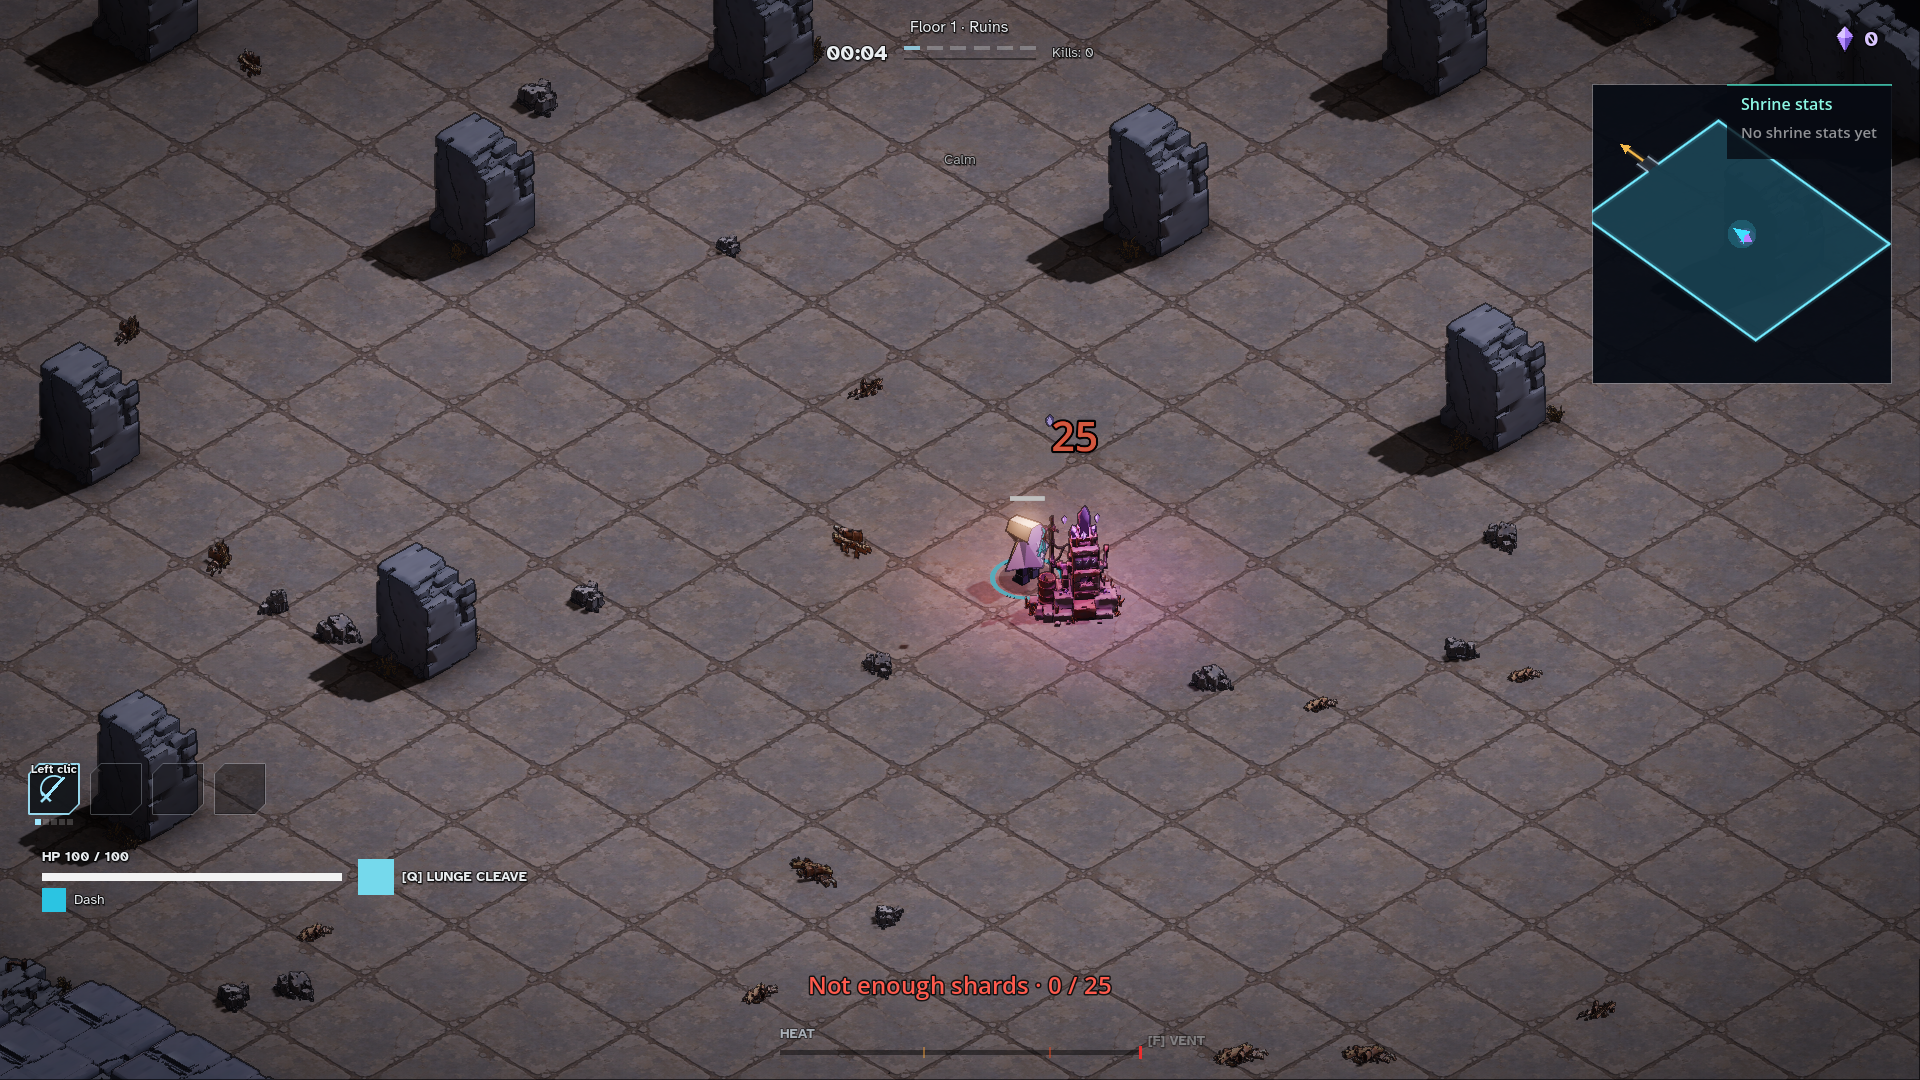
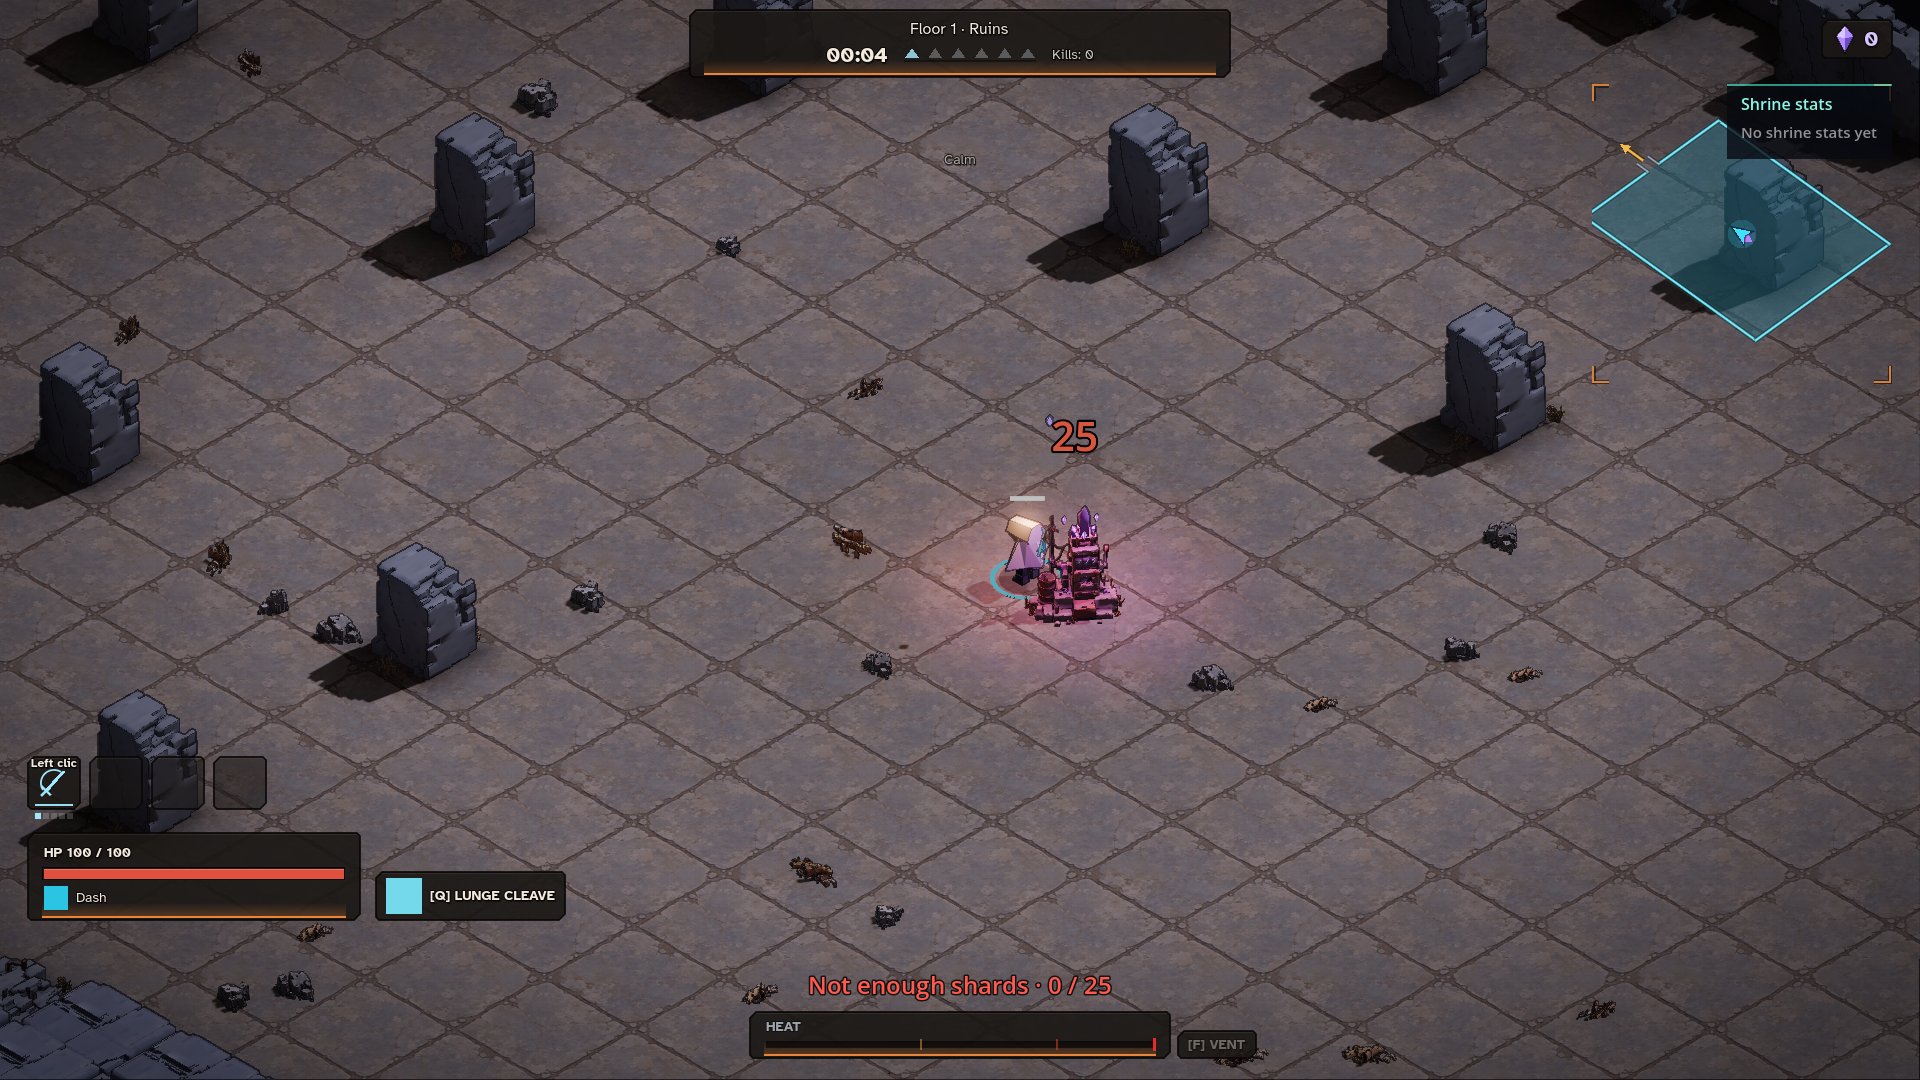
Docs: v0.6.0 Step SR evidence (shot on the merged build), PROGRESS row, MIN_TEST_COUNT 1218
Claude-Session: https://claude.ai/code/session_01Ybi1y9EcEtDzJ8CFycqiNq

diff --git a/docs/roadmap/v0.5.5/evidence/SHRINE_MODEL.md b/docs/roadmap/v0.5.5/evidence/SHRINE_MODEL.md
@@ -1,0 +1,122 @@
+# v0.6.0 Step SR — the owner's gamble shrine model (evidence)
+
+The owner uploaded `assets/models/gamble-shrine.glb` (their own art, made with an AI 3D generator like the v0.5.9 kit).
+This step installs it the way v0.5.9 installed the kit. Build SHA: the step is `b421e17`, merged with
+`claude/lucid-fermat-9wv2tf` (`a541e49`, Step UI + CU) at `75f10e07c972e3e2a39c47504e0ca167260787b8`; the suite, the
+export smoke and the screenshot below ran on `75f10e0` (with `tests/MIN_TEST_COUNT` already at 1218, committed with
+this file). Godot `4.7.2.stable.official.ed1daf0bf`, Linux cloud container, lavapipe (`llvmpipe`) for the shot.
+Presentation only: no sim file changed, so the shrine's spot (`Gamble.spot`), its solid square
+(`Gamble.collider`, 1 × 1 m turned 45°) and its 1.8 m reach are what they were.
+
+## What was done
+| Piece | Where |
+|---|---|
+| The raw upload moved to the kit drop folder under its id (`unprocessed_images/kit/gamble_shrine.glb`, `git mv`); the Godot import files of the old path went with it | `unprocessed_images/kit/` |
+| `kit_prep.py` prepared it like every kit piece: texture 4096 → 1024 px, brightened (raw mean 0.225 → 0.505), JPEG. New: file names on the command line prepare only those uploads, so the rest of the kit and the ground textures are not rewritten | `scripts/assets/kit_prep.py`, `assets/models/kit/gamble_shrine.glb` (+ its `.import` and extracted texture) |
+| Manifest entry (owner's art; sha256 `de311867…0cf0d663`) and a "Set pieces" row in the kit requests | `assets/models/manifest.json`, `docs/art/KIT_REQUESTS.md` |
+| `KitModels.SPECS["gamble_shrine"]`: yaw 0 (its front, the slot window, is already glTF +Z; long side already on X), height 1.7 m, role `shrine`. KitModels normalises it like every piece (bottom at y = 0, centred) and gives it generated LODs (`_with_lods`) | `src/presentation/world_view/kit_models.gd` |
+| `GambleShrineView`: with the v0.5.9 look (`kit_model`, set by `WorldViewRoot` exactly as `kit_chest` is: when the floor has a lighting mood) the body is the model at its natural size 1.58 × 1.12 × 1.7 m, turned 45° so its front faces the iso camera and its sides line up with the sim's square. A missing file draws the old code-built obelisk (L15) | `src/presentation/world_view/gamble_shrine_view.gd`, `world_view_root.gd` |
+| Cues kept: the price floating above (red when you can't pay, hidden far away); the shrine's own light (range 4 m, unshadowed, as before) now sits at the model's crystal and takes the crystal's magenta (`#D46BFF`, the minimap's shrine colour) instead of the old cyan; it brightens ×1.35 in reach; three shards orbit the crystal and spin fast on a use; the whole model flashes on the landing (flashable copy of its material: only energies change, no shader swap) and shakes and turns the light red on a refusal | same file |
+| Shot script | `scripts/shots/shrine_model.gd` |
+
+Not touched: the v0.5.9 lighting, dresser, rooms and other kit pieces; the HUD (Step UI); the attack engine (MX).
+
+## Tests
+- `tests/content/test_model_manifest.gd` (unchanged): the new file is in the manifest with its hash, and every
+  `KitModels.SPECS` id (now including `gamble_shrine`) is delivered.
+- `tests/unit/presentation/test_kit_models.gd` (unchanged): the shrine loads into the unit box with its 1.7 m height
+  and its textured material, like every spec.
+- New `tests/unit/presentation/test_kit_shrine.gd` (4): the view loads the kit's mesh and places it at the sim
+  position, standing on the floor, centred; turned like the footprint, which is unchanged, and its half extents cover
+  the 0.5 m square and stay under 0.8 m (the old plinth was 0.78 m); the cues on the model (price, light brighter in
+  reach, spin, landing flash with no shader change, shake on a refusal); a missing model and the old look draw the
+  obelisk.
+- `tests/e2e/test_e2e_gamble.gd` (main.tscn, input only) gains two asserts: the real game's shrine uses the model, at
+  the sim's shrine position. The rest of the test (walk up, refused use, two wins, pause menu stats) is unchanged.
+- `tests/MIN_TEST_COUNT` 1214 → 1218.
+
+## Commands
+```
+python3 -I scripts/assets/kit_prep.py gamble_shrine.glb
+godot --headless --path . --editor --import --quit
+gdformat --check src scripts tests && gdlint src scripts tests
+bash /tmp/claude-0/vd.sh <worktree> sr        # import + lint + bash scripts/verify.sh
+cd /tmp && bash <worktree>/scripts/ci/export_smoke.sh
+XDG_DATA_HOME=<empty folder> xvfb-run -a -s "-screen 0 1920x1080x24" godot --path . --audio-driver Dummy \
+  --resolution 1920x1080 -s scripts/shots/shrine_model.gd
+cp build/shots/v0.6.0/shrine_model/near.png docs/roadmap/v0.5.5/evidence/shrine_model.png   # by hand
+```
+
+## Raw output
+`kit_prep.py`:
+```
+de311867124089b3b2e56c6fea0aabfe7e6d3ad7a3d37a7a53c84b590cf0d663    978724  assets/models/kit/gamble_shrine.glb
+```
+
+Full suite at `75f10e0` (`/tmp/claude-0/vd_sr.clean.log`; 0 lines with "SCRIPT ERROR" or "Ignoring script"):
+```
+verify exit 0
+Tests              1218
+Passing Tests      1218
+check_gut_log: ok (1218 passing, minimum 1218)
+```
+Tail of the log:
+```
+Scripts             195
+Tests              1218
+Passing Tests      1218
+Asserts           1242312
+Time              2064.044s
+
+---- All tests passed! ----
+```
+An earlier run on the same commit failed 12 e2e tests with `String formatting error` in `pause_menu.gd:34`. The cause
+was my own: I had `git restore`d `locale/strings.{en,es}.translation` after an import regenerated them, and the
+committed copies on `claude/lucid-fermat-9wv2tf` are older than `strings.csv` (`UI_PAUSE_RUN` takes 5 arguments in the
+CSV, fewer in the committed binary). A fresh clone regenerates them on import. After `touch locale/strings.csv` and a
+re-import, the run above passed. The regenerated `.translation` files are left unstaged (not this step's change).
+
+Export smoke (from `/tmp`):
+```
+manifest: 52da1bcc5ac32a0846cd86cb332faae6bde54650fa2f43c65186a5b0544c9878 (246 files, 0 errors)
+Export smoke check (exported pack)
+  ok    running inside the exported pack (run from outside the project folder)
+  ok    the main scene ships
+  ok    600-tick World run hash e5365ddb6dcb matches the project's
+  ok    content player: 1
+  ok    content biomes: 3
+  ok    content validates inside the pack (0 errors)
+  ok    manifest hash 52da1bcc5ac3 matches the project's
+  ok    Spanish translation is loaded
+  ok    UI_PLAY is Play / Jugar
+  ok    boss model stone_sentinel loads from the pack
+  ok    boss model crawler_queen loads from the pack
+  ok    boss model fortress_turret loads from the pack
+  ok    audio cues: 87
+  ok    every cue's sound loads from the pack (missing: [])
+  ok    the test framework is not shipped
+  ok    tests are not shipped
+0 miss(es)
+exit 0
+```
+
+Screenshot run (renderer, 1920 × 1080):
+```
+shrine_model: renderer=forward_plus device=llvmpipe (LLVM 20.1.2, 256 bits) window=(1920, 1080)
+shrine_model: uses_model=true view_pos=(36.755, 0.0, -7.065001) sim_pos=(36.755, 7.065001) price='25'
+shrine_model: res://build/shots/v0.6.0/shrine_model/near.png (frame 89, tick 296)
+shrine_model: spinning=true
+shrine_model: res://build/shots/v0.6.0/shrine_model/spin.png (frame 103, tick 352)
+exit 0
+```
+`view_pos` is `SimPlane.to_3d(sim_pos)`: the model stands at the sim's shrine.
+[`shrine_model.png`](shrine_model.png) is `near.png` (sha256 `b1ae6a97…0cc46421`): floor 1, Ruins mood, the hero in
+reach, the price in red (no shards), the crystal's magenta light on the floor. `spin.png` (sha256 `83beec76…01552a83`,
+after a use with shards granted by the labelled SHOT HELPER) stays in `build/`.
+The first attempt "gave up in step boot": a saved run from another build in the shared `user://` turned Enter into
+Continue. That run moved the bad save aside as `user://saves/run.bad.2026-10-09T01-44-20.save`. Hence the empty
+`XDG_DATA_HOME`.
+
+## Owner
+- How the model reads in play, its size (1.7 m, the old obelisk reached 2.2 m) and the magenta light in place of the
+  old cyan: **OWNER ONLY**.

diff --git a/docs/roadmap/v0.5.5/PROGRESS.md b/docs/roadmap/v0.5.5/PROGRESS.md
@@ -21,8 +21,10 @@ Plan: [`PLAN.md`](PLAN.md). Branch: `claude/lucid-fermat-9wv2tf`; a PR into `mai
 | CU | Cursed chests offer a trade-off curse card (rare-level upside, no epic stat card; S6); eight trade-off curses C1–C8 (Rooted, Heavy Hands, Glass Heart, Blood Price, Fevered, Tunnel Vision, Brittle, Marked), each +1 T, lifted whole by the cleanse; Marked Hunt became C8 Marked, the other five stay as event curses (S7); core theft: elites and bosses carry a glowing core in their card family's colour, a stagger opens a 2 s steal window, a kill inside it drops the core as a free pick (a boss's from the legendary tier) (X2). Evidence: [`evidence/CURSES.md`](evidence/CURSES.md) (suite 1178/1178, export smoke green) | `af1a206`, `949b32f` |
 
 | UI | The A5 restyle: the in-game HUD in B "Ember stone" (stone slabs with an ember line under HP, the top plate, heat and the boss bar; a red HP bar; danger as ember teeth; ability slots as stone with their colour line; skill and vent hints on small slabs) with the **corner minimap floating over the game, no black background** (dark halo under its lines, ember corner ticks); every menu (main, pause, Options, credits, run recap / death, build picker's Back) in C "Cold glass" (the game blurred and dimmed behind, left-aligned title and list, glass highlight and diamond on the focused row, run line and key hints small) with **no build cards beside it**; menu buttons in plain sentence case. Heat colours (`HeatLooks`), the straight heat bar, 52 px cooldown slots, minimap orientation and the crystal pick cards unchanged; nothing in the v0.5.9 world look touched. Evidence: [`evidence/UI_RESTYLE.md`](evidence/UI_RESTYLE.md) | v0.6.0 Step UI commit |
+| SR | The gamble shrine is the owner's own model under the v0.5.9 look (a ruined slot-machine shrine under a magenta crystal): prepared by `kit_prep.py` like the kit (1024 px texture, brightened), in the manifest, loaded through `KitModels` (bottom on the floor, LODs) at 1.58 × 1.12 × 1.7 m, its front turned to the camera over the sim's unchanged 1 m square; its light moved to the crystal in the crystal's magenta, shards orbit and spin on a use, the model flashes on a win and shakes on a refusal, the price floats above; a missing model draws the old obelisk. Presentation only. Evidence: [`evidence/SHRINE_MODEL.md`](evidence/SHRINE_MODEL.md), [`evidence/shrine_model.png`](evidence/shrine_model.png) (suite 1218/1218, export smoke green) | `b421e17` |
 
 ## Goldens changed on purpose
+- none (Step SR: presentation only; full suite 1218/1218 and export smoke green)
 - none (Step UI: presentation only)
 - none (Step EC: the replay and export-smoke goldens did not change; the full suite passed against them)
 - none (Step DS: the replay and export-smoke goldens are the kernel's and still match)
